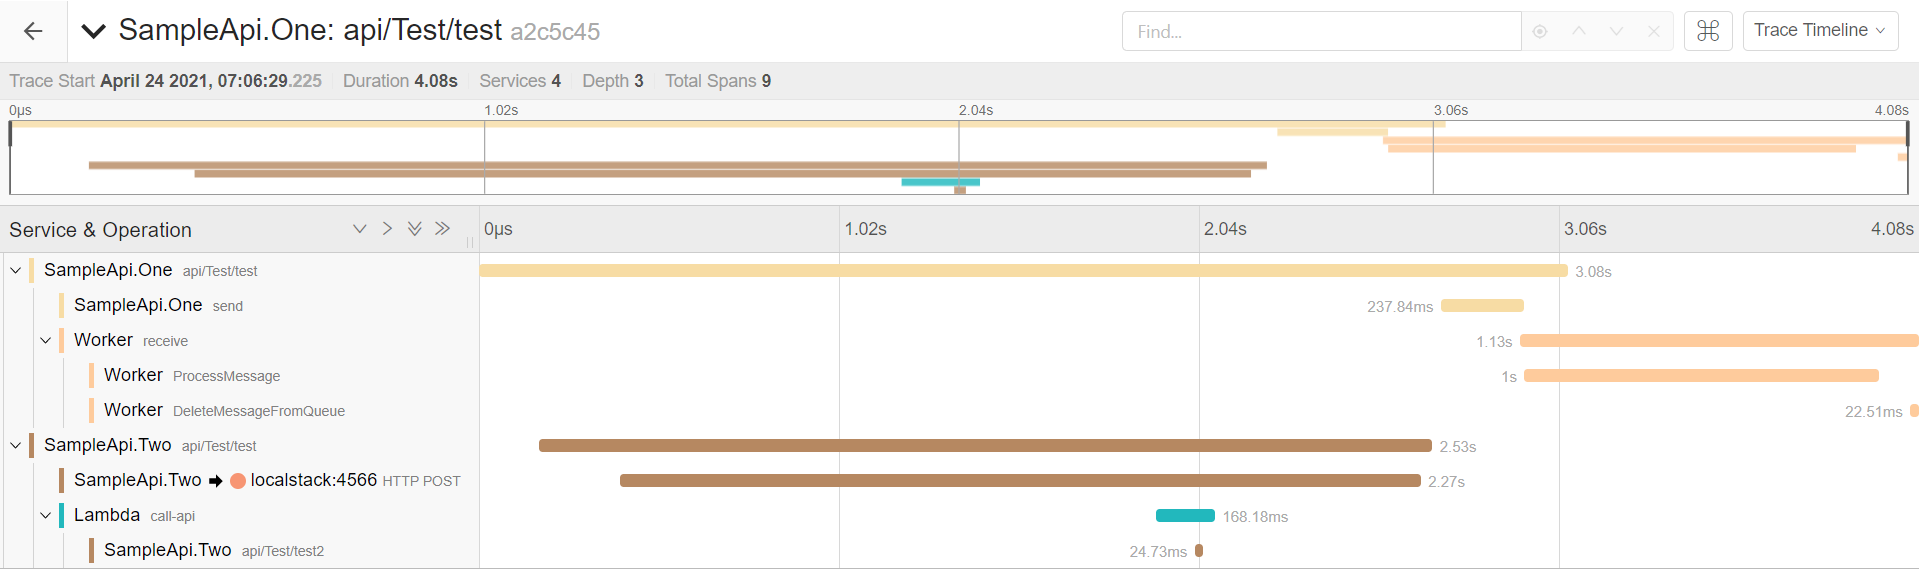
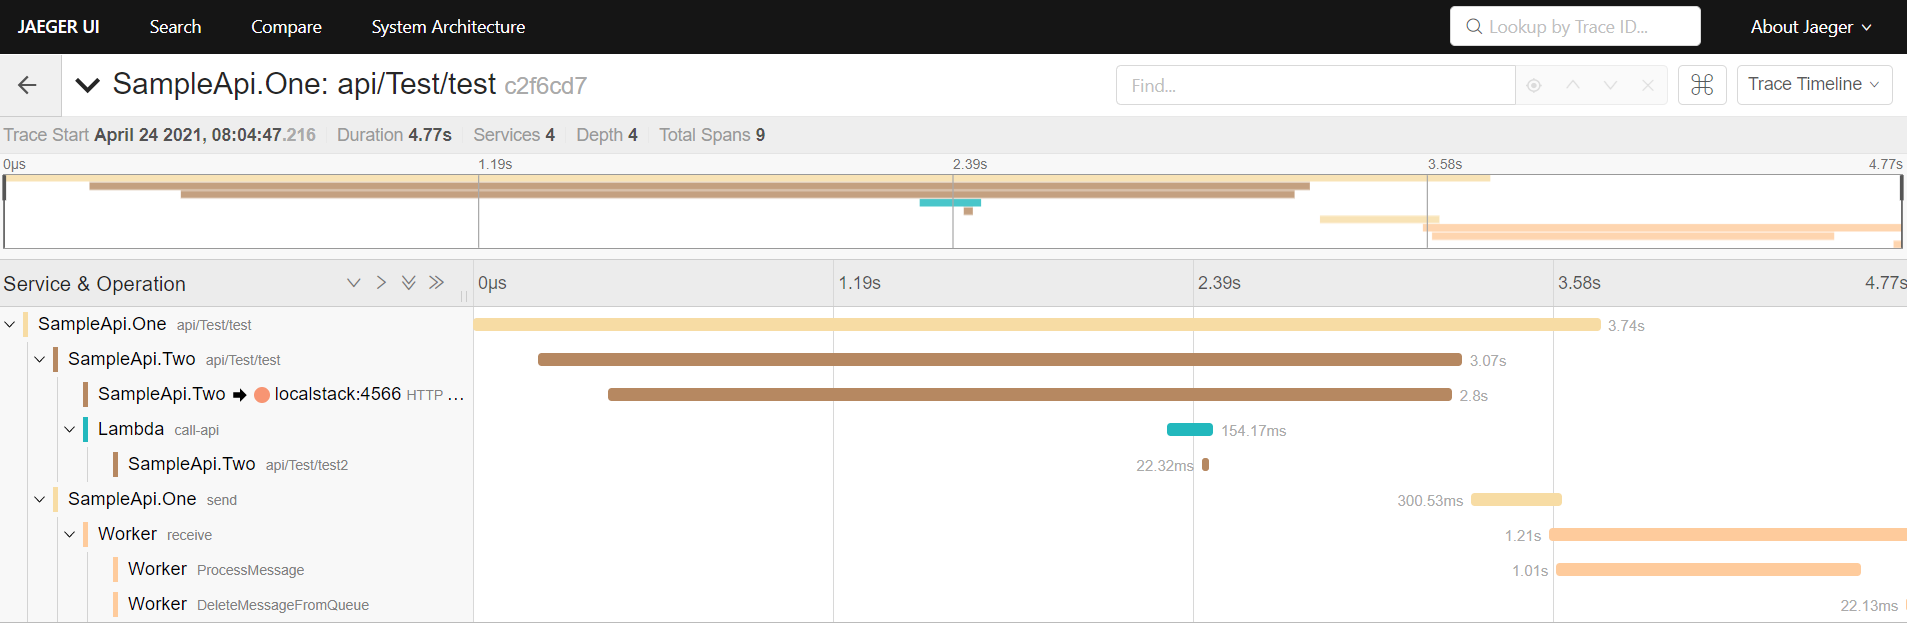
Fix

diff --git a/SampleApi.One/Controllers/TestController.cs b/SampleApi.One/Controllers/TestController.cs
@@ -39,7 +39,10 @@ namespace SampleApi.One.Controllers
                 if (!string.IsNullOrEmpty(_settings.SampleApiTwoTestEndpointUrl))
                 {
                     Console.WriteLine("Calling SampleApi.Two");
-                    var response = await _settings.SampleApiTwoTestEndpointUrl.GetStringAsync();
+                    var response = await _settings
+                        .SampleApiTwoTestEndpointUrl
+                        .WithHeader("traceparent", Activity.Current?.Id)
+                        .GetStringAsync();
                     Console.WriteLine($"SampleApi.Two called successfully: {response}");
                 }
 
@@ -63,7 +66,7 @@ namespace SampleApi.One.Controllers
                         MessageBody = $"Helloworld from {_settings.ServiceName}",
                         MessageAttributes = new Dictionary<string, MessageAttributeValue>() {
                         { 
-                            "TraceParentId", new MessageAttributeValue() { DataType = "String", StringValue = activity.ParentId ?? "None" } }
+                            "TraceParentId", new MessageAttributeValue() { DataType = "String", StringValue = activity.Id ?? "None" } }
                         }
                     };
 
